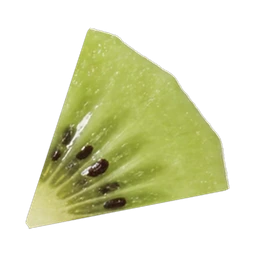
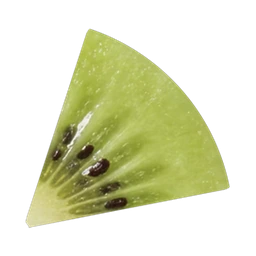
fix(web): 平滑猕猴桃与草莓头像外圈多边形套索折线与浅色残边

diff --git a/scripts/smooth-fruit-avatars.py b/scripts/smooth-fruit-avatars.py
@@ -1,0 +1,318 @@
+#!/usr/bin/env python3
+"""
+平滑水果头像外轮廓（修复小红书白底源图多边形套索折线与浅粉/发白残边）：
+  uv run --with pillow --with numpy --with scipy python3 scripts/smooth-fruit-avatars.py
+
+背景：
+- 8 组水果头像中，柑橘类 4 组（grapefruit / orange / lime / lemon）与 pomelo、bell_pepper 外圈均为平滑轮廓；
+- kiwi 与 strawberry 的小红书白底源图本身由原作者用多边形套索裁切（外圈由约 16 段折线拼成，且草莓外圈带一圈浅粉白阴影晕边、猕猴桃右下带浅褐白残边），
+  导致抠图生成的 `kiwi.webp`、`kiwi_wedge.webp`、`strawberry.webp`、`strawberry_wedge.webp` 边缘呈折线段。
+
+做法：
+1. 若本机存在原始高清白底截图（`~/.agent-hub/uploads/...`），直接从原图提取 1024×1024 底图；否则从仓库现有 256×256 切片超采样到 1024×1024 处理。
+2. 在极坐标 (r, theta) 下提取外轮廓 r_alpha50(theta)，用低阶傅里叶级数（M=2，仅保留基频与椭圆谐波）拟合光滑外轮廓并向内微缩避开折线弦中点。
+3. 在外圈过渡带内沿径向由内部干净果肉色向外平滑延展，彻底消除浅粉白/发白套索残边。
+4. 在 1024×1024 下按 2px smoothstep 距离场生成抗锯齿 alpha 通道，LANCZOS 缩放到 256×256 导出整片 `.webp`，并按果络角度切出对应的 `*_wedge.webp`。
+"""
+
+from __future__ import annotations
+
+import os
+from pathlib import Path
+import numpy as np
+from PIL import Image
+from scipy import ndimage
+from scipy.ndimage import distance_transform_edt, gaussian_filter1d
+
+ROOT = Path(__file__).resolve().parent.parent
+AVATARS_DIR = ROOT / "src" / "web" / "assets" / "avatars"
+UPLOADS_DIR = Path.home() / ".agent-hub" / "uploads"
+
+TARGETS = [
+    {
+        "repo_name": "kiwi",
+        "kind": "kiwi",
+        "upload_rel": "a97db29251925d17/8dd4af724fbcd7ea04e2a2dfbf60b5b5.jpg",
+        "lower_pts": [(85, 11.0), (175, 11.0), (275, 11.0)],
+        "upper_pts": [(85, 72.0), (175, 72.0), (275, 72.0)],
+    },
+    {
+        "repo_name": "strawberry",
+        "kind": "strawberry",
+        "upload_rel": "2c69fa971caffe00/0032503bb3ea4755695b623e3e74f62d.jpg",
+        "lower_pts": [(85, 14.0), (175, 14.0), (275, 14.0)],
+        "upper_pts": [(85, 78.0), (175, 78.0), (275, 78.0)],
+    },
+]
+
+
+def extract_raw_1024_from_upload(path: Path) -> Image.Image:
+    im = Image.open(path).convert("RGB")
+    w, h = im.size
+    arr = np.asarray(im, dtype=np.float32)
+    y0, y1 = int(h * 0.16), int(h * 0.55)
+    x0, x1 = int(w * 0.06), int(w * 0.94)
+    crop = arr[y0:y1, x0:x1]
+
+    max_c = crop.max(axis=2)
+    min_c = crop.min(axis=2)
+    chroma = max_c - min_c
+    dist_white = np.sqrt(((255.0 - crop) ** 2).sum(axis=2))
+    is_pure_white = (dist_white < 10.0) & (chroma < 8.0)
+    labeled, _ = ndimage.label(is_pure_white)
+    border_labels = set(
+        np.unique(np.concatenate([labeled[0, :], labeled[-1, :], labeled[:, 0], labeled[:, -1]]))
+    )
+    border_labels.discard(0)
+    bg_mask = np.isin(labeled, list(border_labels))
+
+    fg_core = ~bg_mask
+    fg_labeled, fg_num = ndimage.label(fg_core)
+    if fg_num > 1:
+        sizes = ndimage.sum(fg_core, fg_labeled, range(1, fg_num + 1))
+        fg_core = fg_labeled == (int(np.argmax(sizes)) + 1)
+        fg_core = ndimage.binary_fill_holes(fg_core)
+
+    dist_in = ndimage.distance_transform_edt(fg_core)
+    natural_alpha = np.clip((dist_white - 3.0) / 28.0 + chroma / 22.0, 0.0, 1.0)
+    alpha = np.where(dist_in > 4.5, 1.0, np.where(~fg_core, 0.0, natural_alpha))
+
+    rgb = crop.copy()
+    semi = (alpha > 0.03) & (alpha < 0.97)
+    for c in range(3):
+        unmixed = (rgb[:, :, c] - (1.0 - alpha) * 255.0) / np.maximum(alpha, 0.25)
+        rgb[:, :, c] = np.where(semi, np.clip(unmixed, 0.0, 255.0), rgb[:, :, c])
+
+    ys, xs = np.where(alpha > 0.02)
+    by0, by1 = ys.min(), ys.max() + 1
+    bx0, bx1 = xs.min(), xs.max() + 1
+    rgba_crop = np.dstack([rgb[by0:by1, bx0:bx1], alpha[by0:by1, bx0:bx1] * 255.0]).astype(np.uint8)
+    fruit_im = Image.fromarray(rgba_crop, mode="RGBA")
+    fw, fh = fruit_im.size
+    scale = int(round(1024 * 0.88)) / max(fw, fh)
+    nw, nh = int(round(fw * scale)), int(round(fh * scale))
+    fruit_resized = fruit_im.resize((nw, nh), Image.Resampling.LANCZOS)
+    canvas = Image.new("RGBA", (1024, 1024), (0, 0, 0, 0))
+    canvas.paste(fruit_resized, ((1024 - nw) // 2, (1024 - nh) // 2), fruit_resized)
+    return canvas
+
+
+def smooth_fruit_1024(im_1024: Image.Image, kind: str) -> Image.Image:
+    arr = np.asarray(im_1024.convert("RGBA"), dtype=np.float32)
+    rgb = arr[..., :3].copy()
+    orig_alpha = arr[..., 3] / 255.0
+
+    ys, xs = np.where(orig_alpha > 0.5)
+    cy, cx = float(ys.mean()), float(xs.mean())
+
+    N = 720
+    thetas = np.linspace(-np.pi, np.pi, N, endpoint=False)
+    r_alpha50 = np.zeros(N, dtype=np.float32)
+    r_flesh = np.zeros(N, dtype=np.float32)
+
+    rs = np.linspace(360.0, 465.0, 421, dtype=np.float32)
+    for i, th in enumerate(thetas):
+        c, s = np.cos(th), np.sin(th)
+        px = np.clip(np.round(cx + rs * c).astype(int), 0, 1023)
+        py = np.clip(np.round(cy + rs * s).astype(int), 0, 1023)
+        av = orig_alpha[py, px]
+        R, G, B = rgb[py, px, 0], rgb[py, px, 1], rgb[py, px, 2]
+
+        idx_a = np.where(av >= 0.5)[0]
+        r_a = float(rs[idx_a[-1]]) if len(idx_a) else 442.0
+        r_alpha50[i] = r_a
+
+        if kind == "kiwi":
+            bad = (av <= 0.85) | ((G - B) < 50.0) | (B > 150.0) | (np.maximum(R, G) > 224.0)
+            idx_good = np.where(~bad)[0]
+            r_f = float(rs[idx_good[-1]]) if len(idx_good) else (r_a - 10.0)
+            r_flesh[i] = min(r_f, r_a - 5.0)
+        else:
+            in_rim = rs >= 422.0
+            halo = in_rim & ((av <= 0.85) | (B > 92.0) | (G > 112.0) | ((R - G) < 85.0))
+            bad_idx = np.where(halo)[0]
+            if len(bad_idx):
+                r_f = float(rs[bad_idx[0]]) - 1.0
+            else:
+                r_f = r_a - 5.0
+            r_flesh[i] = np.clip(r_f, 418.0, r_a - 5.0)
+
+    r_flesh_smooth = gaussian_filter1d(r_flesh, sigma=8.0, mode="wrap")
+
+    # 低阶傅里叶拟合（M=2）：保留整体圆/椭圆比例，滤除高阶多边形折线谐波
+    fft_coeffs = np.fft.rfft(r_alpha50)
+    fft_filtered = np.zeros_like(fft_coeffs)
+    fft_filtered[:3] = fft_coeffs[:3]
+    r_fit = np.fft.irfft(fft_filtered, n=N)
+
+    inset = 6.5 if kind == "kiwi" else 8.0
+    r_target = r_fit - inset
+
+    yy, xx = np.mgrid[0:1024, 0:1024]
+    dx = xx - cx
+    dy = yy - cy
+    r_grid = np.hypot(dx, dy)
+    th_grid = np.arctan2(dy, dx)
+
+    th_wrapped = np.concatenate([thetas - 2 * np.pi, thetas, thetas + 2 * np.pi])
+    r_target_2d = np.interp(th_grid, th_wrapped, np.tile(r_target, 3))
+    r_flesh_2d = np.interp(th_grid, th_wrapped, np.tile(r_flesh_smooth, 3))
+
+    rim_start = np.minimum(r_flesh_2d - 6.0, r_target_2d - 10.0)
+    rim_mask = (r_grid > rim_start) & (r_grid < (r_target_2d + 12.0))
+    cos_t = np.cos(th_grid)
+    sin_t = np.sin(th_grid)
+
+    r_s1 = rim_start - 2.0
+    r_s2 = rim_start - 6.0
+    r_s3 = rim_start - 10.0
+    sx1 = np.clip(np.round(cx + r_s1 * cos_t).astype(int), 0, 1023)
+    sy1 = np.clip(np.round(cy + r_s1 * sin_t).astype(int), 0, 1023)
+    sx2 = np.clip(np.round(cx + r_s2 * cos_t).astype(int), 0, 1023)
+    sy2 = np.clip(np.round(cy + r_s2 * sin_t).astype(int), 0, 1023)
+    sx3 = np.clip(np.round(cx + r_s3 * cos_t).astype(int), 0, 1023)
+    sy3 = np.clip(np.round(cy + r_s3 * sin_t).astype(int), 0, 1023)
+    sampled_rgb = 0.45 * rgb[sy1, sx1] + 0.35 * rgb[sy2, sx2] + 0.20 * rgb[sy3, sx3]
+
+    w_blend = np.clip((r_grid - rim_start) / 8.0, 0.0, 1.0)
+    w_blend = w_blend * w_blend * (3.0 - 2.0 * w_blend)
+    if kind == "kiwi":
+        is_washed = (r_grid > 415.0) & (((rgb[..., 1] - rgb[..., 2]) < 45.0) | (rgb[..., 2] > 152.0))
+    else:
+        is_washed = (r_grid > 418.0) & ((rgb[..., 2] > 90.0) | (rgb[..., 1] > 110.0))
+    w_eff = np.where(is_washed, np.maximum(w_blend, 0.92), w_blend)
+
+    rgb_out = np.where(
+        rim_mask[..., None], rgb * (1.0 - w_eff[..., None]) + sampled_rgb * w_eff[..., None], rgb
+    )
+
+    sdf = r_target_2d - r_grid
+    alpha_new = np.clip((sdf + 1.0) / 2.0, 0.0, 1.0)
+    alpha_new = alpha_new * alpha_new * (3.0 - 2.0 * alpha_new)
+
+    rgb_out = np.where((sdf > -6.0)[..., None], rgb_out, 0.0)
+    out = np.dstack([np.clip(rgb_out, 0, 255), np.clip(alpha_new * 255.0, 0, 255)]).astype(np.uint8)
+    im_clean = Image.fromarray(out, mode="RGBA")
+
+    ys2, xs2 = np.where(alpha_new > 0.02)
+    by0, by1 = ys2.min(), ys2.max() + 1
+    bx0, bx1 = xs2.min(), xs2.max() + 1
+    fruit_crop = im_clean.crop((bx0, by0, bx1, by1))
+    fw, fh = fruit_crop.size
+    target_max = int(round(1024 * 0.88))
+    scale = target_max / max(fw, fh)
+    nw, nh = int(round(fw * scale)), int(round(fh * scale))
+    fruit_resized = fruit_crop.resize((nw, nh), Image.Resampling.LANCZOS)
+    canvas_1024 = Image.new("RGBA", (1024, 1024), (0, 0, 0, 0))
+    canvas_1024.paste(fruit_resized, ((1024 - nw) // 2, (1024 - nh) // 2), fruit_resized)
+    return canvas_1024
+
+
+def interp_smooth_angle(pts: list[tuple[float, float]], r_grid_1024: np.ndarray) -> np.ndarray:
+    rs = np.array([p[0] for p in pts], dtype=np.float32)
+    angs = np.array([p[1] for p in pts], dtype=np.float32)
+    raw = np.interp(r_grid_1024, rs, angs)
+    return gaussian_filter1d(raw, sigma=25.0)
+
+
+def make_wedge_from_512(
+    im_512: Image.Image,
+    lower_pts: list[tuple[float, float]],
+    upper_pts: list[tuple[float, float]],
+) -> Image.Image:
+    arr = np.asarray(im_512.convert("RGBA"), dtype=np.float32)
+    orig_alpha = arr[..., 3] / 255.0
+
+    yy, xx = np.mgrid[0:512, 0:512]
+    cx, cy = 256.0, 256.0
+    dy = -(yy - cy)
+    dx = xx - cx
+    r = np.hypot(dx, dy)
+    theta = np.degrees(np.arctan2(dy, dx))
+
+    r_grid_1024 = np.arange(400, dtype=np.float32) * 2.0
+    c1 = interp_smooth_angle(lower_pts, r_grid_1024)
+    c2 = interp_smooth_angle(upper_pts, r_grid_1024)
+
+    r_idx = np.clip(r.astype(np.int32), 0, 399)
+    theta1_r = c1[r_idx]
+    theta2_r = c2[r_idx]
+
+    d_ang1 = ((theta - theta1_r + 180) % 360) - 180
+    d_ang2 = ((theta2_r - theta + 180) % 360) - 180
+    dist_edge1 = np.radians(d_ang1) * np.maximum(r, 12.0)
+    dist_edge2 = np.radians(d_ang2) * np.maximum(r, 12.0)
+
+    dist_inside_fruit = distance_transform_edt(orig_alpha > 0.15) - distance_transform_edt(
+        orig_alpha <= 0.15
+    )
+    r_tip = 7.0
+    dist_tip = r - r_tip
+
+    k_tip = 8.0
+    a1 = np.maximum(k_tip - dist_edge1, 0.0) / k_tip
+    a2 = np.maximum(k_tip - dist_edge2, 0.0) / k_tip
+    at = np.maximum(k_tip - dist_tip, 0.0) / k_tip
+    sdf_inner = np.minimum(np.minimum(dist_edge1, dist_edge2), dist_tip) - k_tip * np.maximum(
+        np.hypot(np.maximum(a1, at), a2) - 1.0, 0.0
+    )
+
+    k_shoulder = 9.0
+    s_in = np.maximum(k_shoulder - sdf_inner, 0.0) / k_shoulder
+    s_out = np.maximum(k_shoulder - dist_inside_fruit, 0.0) / k_shoulder
+    sdf_cut = sdf_inner - k_shoulder * np.maximum(np.hypot(s_in, s_out) - 1.0, 0.0)
+
+    cut_mask = np.clip((sdf_cut + 0.6) / 1.8, 0.0, 1.0)
+    cut_mask = cut_mask * cut_mask * (3.0 - 2.0 * cut_mask)
+
+    final_alpha = orig_alpha * cut_mask
+    out_arr = arr.copy()
+    out_arr[..., 3] = final_alpha * 255.0
+
+    wy, wx = np.where(final_alpha > 0.03)
+    y0, y1 = wy.min(), wy.max()
+    x0, x1 = wx.min(), wx.max()
+    crop = Image.fromarray(out_arr[y0 : y1 + 1, x0 : x1 + 1].astype(np.uint8), "RGBA")
+
+    cw, ch = crop.size
+    scale = (512 * 0.80) / max(cw, ch)
+    nw, nh = int(round(cw * scale)), int(round(ch * scale))
+    resized = crop.resize((nw, nh), Image.Resampling.LANCZOS)
+
+    canvas = Image.new("RGBA", (512, 512), (0, 0, 0, 0))
+    canvas.paste(resized, ((512 - nw) // 2, (512 - nh) // 2), resized)
+    return canvas.resize((256, 256), Image.Resampling.LANCZOS)
+
+
+def main() -> None:
+    for item in TARGETS:
+        repo_name = item["repo_name"]
+        kind = item["kind"]
+        upload_path = UPLOADS_DIR / item["upload_rel"]
+        slice_path = AVATARS_DIR / f"{repo_name}.webp"
+        wedge_path = AVATARS_DIR / f"{repo_name}_wedge.webp"
+
+        if upload_path.exists():
+            raw_1024 = extract_raw_1024_from_upload(upload_path)
+            src_desc = f"upload:{upload_path.name}"
+        else:
+            raw_1024 = Image.open(slice_path).convert("RGBA").resize(
+                (1024, 1024), Image.Resampling.LANCZOS
+            )
+            src_desc = f"avatar:{slice_path.name}"
+
+        sm_1024 = smooth_fruit_1024(raw_1024, kind)
+        sm_512 = sm_1024.resize((512, 512), Image.Resampling.LANCZOS)
+        sm_256 = sm_1024.resize((256, 256), Image.Resampling.LANCZOS)
+        wedge_256 = make_wedge_from_512(sm_512, item["lower_pts"], item["upper_pts"])
+
+        sm_256.save(slice_path, "WEBP", quality=92, alpha_quality=100)
+        wedge_256.save(wedge_path, "WEBP", quality=92, method=6)
+        print(
+            f"{repo_name} ({src_desc}): {slice_path.name}={os.path.getsize(slice_path)}B, "
+            f"{wedge_path.name}={os.path.getsize(wedge_path)}B"
+        )
+
+
+if __name__ == "__main__":
+    main()
